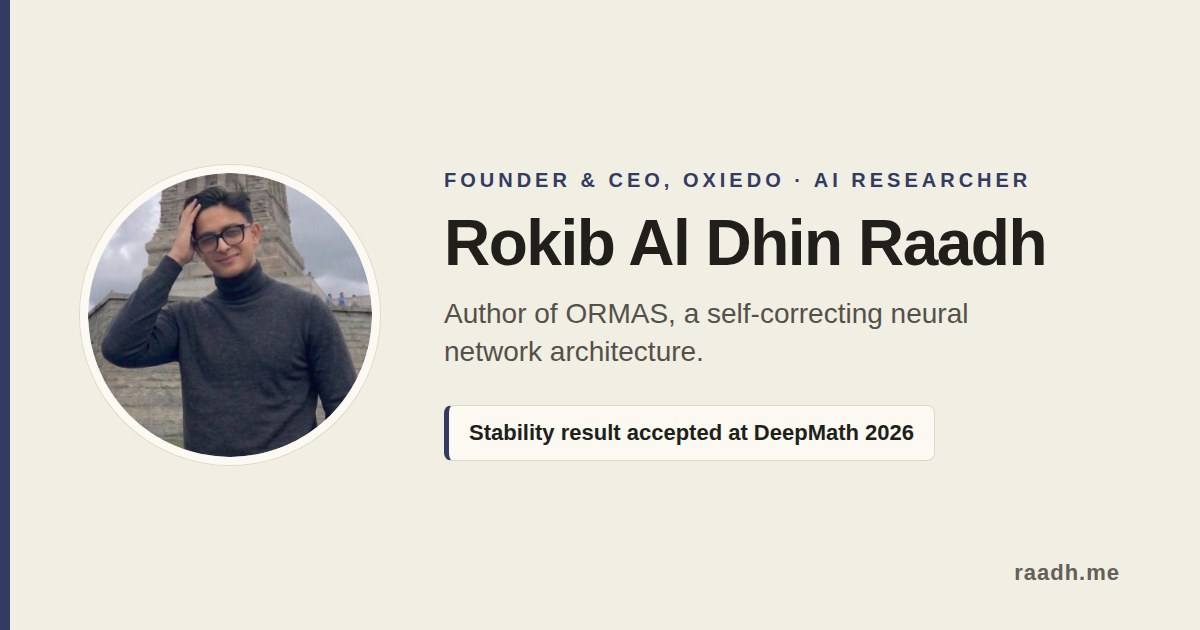
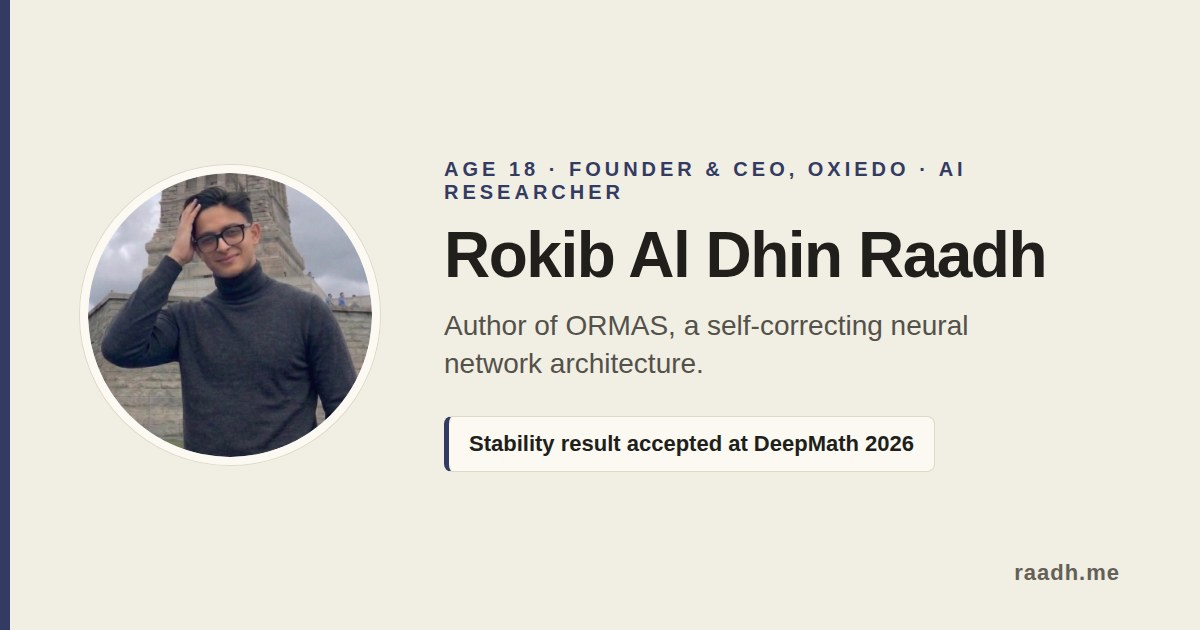
Make his age a signature element across the site
- Hero: a "By eighteen" band (large 18 numeral + four credentials) in
  the hero card style, "Age 18" in the identity strip, and the kicker
  now opens "At 18".
- Profile, Recent and Education headlines and the statement byline
  carry the age with the existing .age emphasis.
- Title, meta descriptions and keywords say 18-year-old founder; the
  share image adds "Age 18".

Claude-Session: https://claude.ai/code/session_015oSi4TMhQiYc9fJc7JMsjK

Changed region(s): [[0.37, 0.2413, 0.8942, 0.4524], [0.37, 0.4825, 0.8017, 0.6032], [0.37, 0.6333, 0.7708, 0.754]]

diff --git a/index.html b/index.html
@@ -5,8 +5,8 @@
     <meta name="viewport" content="width=device-width, initial-scale=1.0" />
     
     <!-- Primary meta -->
-    <title>Rokib Al Dhin Raadh — Founder &amp; CEO, OXIEDO · AI Researcher</title>
-    <meta name="description" content="Rokib Al Dhin Raadh is the founder and CEO of OXIEDO and the author of ORMAS, a self-correcting neural network architecture whose stability result was accepted at DeepMath 2026." />
+    <title>Rokib Al Dhin Raadh — 18-Year-Old Founder &amp; CEO of OXIEDO · AI Researcher</title>
+    <meta name="description" content="Rokib Al Dhin Raadh, 18, is the founder and CEO of OXIEDO and the author of ORMAS, a self-correcting neural network architecture whose stability result was accepted at DeepMath 2026." />
     <meta name="author" content="Rokib Al Dhin Raadh" />
     <meta name="robots" content="index, follow, max-snippet:-1, max-image-preview:large, max-video-preview:-1" />
     <meta name="keywords" content="Rokib Al Dhin Raadh, Raadh, OXIEDO, ORMAS, self-correcting neural network, AI interpretability, auditable AI training, Input-to-State Stability, DeepMath 2026, AI model risk, founder, AI researcher, Dhaka, Bangladesh" />
@@ -31,8 +31,8 @@
     <meta property="og:site_name" content="Rokib Al Dhin Raadh" />
     <meta property="og:locale" content="en_GB" />
     <meta property="og:url" content="https://www.raadh.me/" />
-    <meta property="og:title" content="Rokib Al Dhin Raadh — Founder &amp; CEO, OXIEDO · AI Researcher" />
-    <meta property="og:description" content="Rokib Al Dhin Raadh is the founder and CEO of OXIEDO and the author of ORMAS, a self-correcting neural network architecture whose stability result was accepted at DeepMath 2026." />
+    <meta property="og:title" content="Rokib Al Dhin Raadh — 18-Year-Old Founder &amp; CEO of OXIEDO · AI Researcher" />
+    <meta property="og:description" content="Rokib Al Dhin Raadh, 18, is the founder and CEO of OXIEDO and the author of ORMAS, a self-correcting neural network architecture whose stability result was accepted at DeepMath 2026." />
     <meta property="og:image" content="https://www.raadh.me/og-image.jpg" />
     <meta property="og:image:type" content="image/jpeg" />
     <meta property="og:image:width" content="1200" />
@@ -45,8 +45,8 @@
     <meta name="twitter:card" content="summary_large_image" />
     <meta name="twitter:site" content="@Raad_X_" />
     <meta name="twitter:creator" content="@Raad_X_" />
-    <meta name="twitter:title" content="Rokib Al Dhin Raadh — Founder &amp; CEO, OXIEDO · AI Researcher" />
-    <meta name="twitter:description" content="Rokib Al Dhin Raadh is the founder and CEO of OXIEDO and the author of ORMAS, a self-correcting neural network architecture whose stability result was accepted at DeepMath 2026." />
+    <meta name="twitter:title" content="Rokib Al Dhin Raadh — 18-Year-Old Founder &amp; CEO of OXIEDO · AI Researcher" />
+    <meta name="twitter:description" content="Rokib Al Dhin Raadh, 18, is the founder and CEO of OXIEDO and the author of ORMAS, a self-correcting neural network architecture whose stability result was accepted at DeepMath 2026." />
     <meta name="twitter:image" content="https://www.raadh.me/og-image.jpg" />
     <meta name="twitter:image:alt" content="Rokib Al Dhin Raadh, Founder &amp; CEO of OXIEDO and AI researcher" />
 
@@ -69,8 +69,8 @@
       "@type": "ProfilePage",
       "@id": "https://www.raadh.me/#profile",
       "url": "https://www.raadh.me/",
-      "name": "Rokib Al Dhin Raadh — Founder & CEO, OXIEDO · AI Researcher",
-      "description": "Rokib Al Dhin Raadh is the founder and CEO of OXIEDO and the author of ORMAS, a self-correcting neural network architecture whose stability result was accepted at DeepMath 2026.",
+      "name": "Rokib Al Dhin Raadh — 18-Year-Old Founder & CEO of OXIEDO · AI Researcher",
+      "description": "Rokib Al Dhin Raadh, 18, is the founder and CEO of OXIEDO and the author of ORMAS, a self-correcting neural network architecture whose stability result was accepted at DeepMath 2026.",
       "inLanguage": "en",
       "isPartOf": {
         "@id": "https://www.raadh.me/#website"
@@ -106,7 +106,7 @@
       "worksFor": {
         "@id": "https://oxiedo.com/#organization"
       },
-      "description": "Rokib Al Dhin Raadh is the founder and CEO of OXIEDO and the author of ORMAS, a self-correcting neural network architecture whose stability result was accepted at DeepMath 2026.",
+      "description": "Rokib Al Dhin Raadh, 18, is the founder and CEO of OXIEDO and the author of ORMAS, a self-correcting neural network architecture whose stability result was accepted at DeepMath 2026.",
       "address": {
         "@type": "PostalAddress",
         "addressLocality": "Dhaka",

diff --git a/src/components/homes/home-7/Hero.tsx b/src/components/homes/home-7/Hero.tsx
@@ -158,6 +158,37 @@ export default function Hero(_props?: any) {
         .hx-lead { font-size: 15.5px; line-height: 1.72; color: var(--pf-ink-2); max-width: 585px; margin: 0 0 13px; }
         .hx-lead strong { color: var(--pf-ink); font-weight: 600; }
 
+        /* ── "By 18": the age as the page's signature fact. Same card family
+             as the rest of the hero; the weight comes from one large numeral. */
+        .hx-by18 {
+          display: grid; grid-template-columns: auto minmax(0, 1fr); align-items: center; gap: 22px;
+          max-width: 585px; margin: 4px 0 24px; padding: 16px 20px;
+          background: var(--pf-surface); border: 1px solid var(--pf-border);
+          border-left: 3px solid var(--pf-accent); border-radius: 10px;
+        }
+        .hx-by18-n { display: flex; flex-direction: column; align-items: center; line-height: 1; padding-right: 20px; border-right: 1px solid var(--pf-border); }
+        .hx-by18-n b {
+          font-size: 58px; font-weight: 800; letter-spacing: -2.5px; color: var(--pf-accent);
+          font-variant-numeric: tabular-nums;
+        }
+        .hx-by18-n small {
+          font-size: 9.5px; font-weight: 800; letter-spacing: 1.6px; text-transform: uppercase;
+          color: var(--pf-ink-3); margin-top: 6px;
+        }
+        .hx-by18-k {
+          font-size: 9.5px; font-weight: 800; letter-spacing: 1.8px; text-transform: uppercase;
+          color: var(--pf-accent); margin: 0 0 8px;
+        }
+        .hx-by18-l { list-style: none; margin: 0; padding: 0; display: grid; grid-template-columns: 1fr 1fr; gap: 6px 18px; }
+        .hx-by18-l li { font-size: 12.5px; line-height: 1.45; color: var(--pf-ink-2); padding-left: 12px; position: relative; margin: 0; }
+        .hx-by18-l li:before { content: ""; position: absolute; left: 0; top: 7px; width: 5px; height: 5px; border-radius: 50%; background: var(--pf-accent); }
+        .hx-by18-l b { color: var(--pf-ink); font-weight: 700; }
+        @media (max-width: 560px) {
+          .hx-by18 { grid-template-columns: 1fr; gap: 12px; }
+          .hx-by18-n { flex-direction: row; align-items: baseline; gap: 10px; border-right: 0; padding-right: 0; }
+          .hx-by18-l { grid-template-columns: 1fr; }
+        }
+
         .hx-trust {
           font-size: 12.5px; line-height: 1.7; color: var(--pf-ink-3);
           max-width: 585px; margin: 0 0 24px;
@@ -311,7 +342,7 @@ export default function Hero(_props?: any) {
 
           <div>
             <div className="hx-id">
-              Rokib Al Dhin Raadh <i /> Founder &amp; CEO, OXIEDO <i /> AI Researcher
+              Rokib Al Dhin Raadh <i /> <span className="age">Age 18</span> <i /> Founder &amp; CEO, OXIEDO <i /> AI Researcher
             </div>
 
             <h1 className="hx-h1">
@@ -320,7 +351,7 @@ export default function Hero(_props?: any) {
               <span>It was one decision, made in 1986.</span>
             </h1>
 
-            <p className="hx-kicker">Rokib Al Dhin Raadh built the alternative, and a company on top of it.</p>
+            <p className="hx-kicker">At <span className="age">18</span>, Rokib Al Dhin Raadh has built the alternative, and a company on top of it.</p>
 
             <p className="hx-lead">
               Every neural network in production shares one blind spot. A single error signal updates every
@@ -333,11 +364,18 @@ export default function Hero(_props?: any) {
               at four operations, the network records which of its parts changed, and why, while it trains.
             </p>
 
-            <p className="hx-trust">
-              Developed independently at <span className="age">17</span>: 383 controlled experiments on a single GPU,
-              a public preprint, a peer-reviewed stability result at DeepMath 2026, and every run reproducible
-              from seed. OXIEDO now licenses the architecture to regulated industries.
-            </p>
+            <div className="hx-by18">
+              <div className="hx-by18-n"><b>18</b><small>Years old</small></div>
+              <div>
+                <p className="hx-by18-k">By eighteen</p>
+                <ul className="hx-by18-l">
+                  <li><b>Founder &amp; CEO</b> of OXIEDO</li>
+                  <li><b>Peer-reviewed</b> at DeepMath 2026</li>
+                  <li><b>Programme committee</b>, NeurIPS 2026 workshop</li>
+                  <li><b>383 experiments</b>, one GPU, no lab</li>
+                </ul>
+              </div>
+            </div>
 
             <div className="hx-ctas">
               <a className="hx-cta hx-cta-p" href="https://oxiedo.com" target="_blank" rel="noreferrer">

diff --git a/src/components/common/cv/CVWhoIAm.tsx b/src/components/common/cv/CVWhoIAm.tsx
@@ -308,7 +308,7 @@ export default function CVWhoIAm() {
           Profile
         </span>
         <h2 className="title mb--20 fs-2" style={{ fontWeight: 800, color: 'var(--pf-ink)' }}>
-          Founder, researcher and engineer: six years of work, in order
+          Founder, researcher and engineer, at <span className="age">18</span>
         </h2>
 
         {/* ── The founder video carries the introduction itself — no filler
@@ -329,7 +329,7 @@ export default function CVWhoIAm() {
             </div>
             <h3 className="wi-why-h">Rokib Al Dhin Raadh: founder of OXIEDO, author of ORMAS.</h3>
             <p className="wi-why-p">
-              Raadh, 18, is based in Dhaka, Bangladesh. He founded five ventures between the ages of twelve and
+              Raadh, <span className="age">18</span>, is based in Dhaka, Bangladesh. He founded five ventures between the ages of twelve and
               seventeen and found they all failed for the same structural reason. Following that finding led him
               from multi-agent systems to a new neural network architecture, and then to a company built on it.
             </p>

diff --git a/src/components/common/cv/CVEducation.tsx b/src/components/common/cv/CVEducation.tsx
@@ -8,7 +8,7 @@ export default function CVEducation() {
       title="Self-taught across machine learning, systems and theory."
       lead={
         <>
-          Raadh is completing his final year of secondary school and has learned his field independently,
+          At <span className="age">18</span>, Raadh is completing his final year of secondary school and has learned his field independently,
           without a university or advisor. He studies what each problem requires, and the work has taken him
           into control theory, market microstructure and company law alongside machine learning.
         </>

diff --git a/src/components/common/cv/CVRecognition.tsx b/src/components/common/cv/CVRecognition.tsx
@@ -6,7 +6,7 @@ export default function CVRecognition() {
       id="recognition"
       phase="now"
       eyebrow="Recent · 2026"
-      title="Three months of external recognition."
+      title={<>Three months of external recognition, at <span className="age">18</span>.</>}
       lead={
         <>
           July: Cosmos Institute ranked the work highest in its cycle. August: an unsolicited application to

diff --git a/src/components/common/cv/CVOriginStatement.tsx b/src/components/common/cv/CVOriginStatement.tsx
@@ -256,7 +256,7 @@ export default function CVOriginStatement() {
 
       <div>
 
-        <p className="os-byline">Rokib Al Dhin Raadh · Founder &amp; CEO, OXIEDO · Dhaka, Bangladesh</p>
+        <p className="os-byline">Rokib Al Dhin Raadh · <span className="age">Age 18</span> · Founder &amp; CEO, OXIEDO · Dhaka, Bangladesh</p>
 
         <div className="os-band">
           {[
